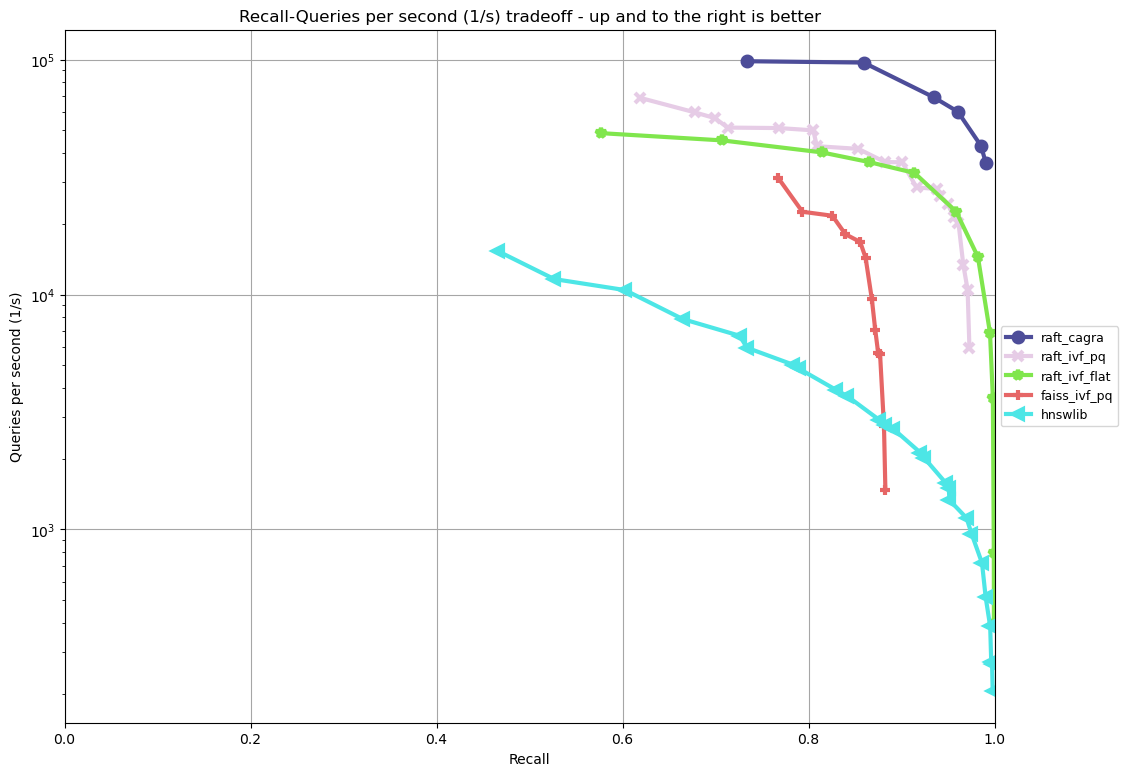
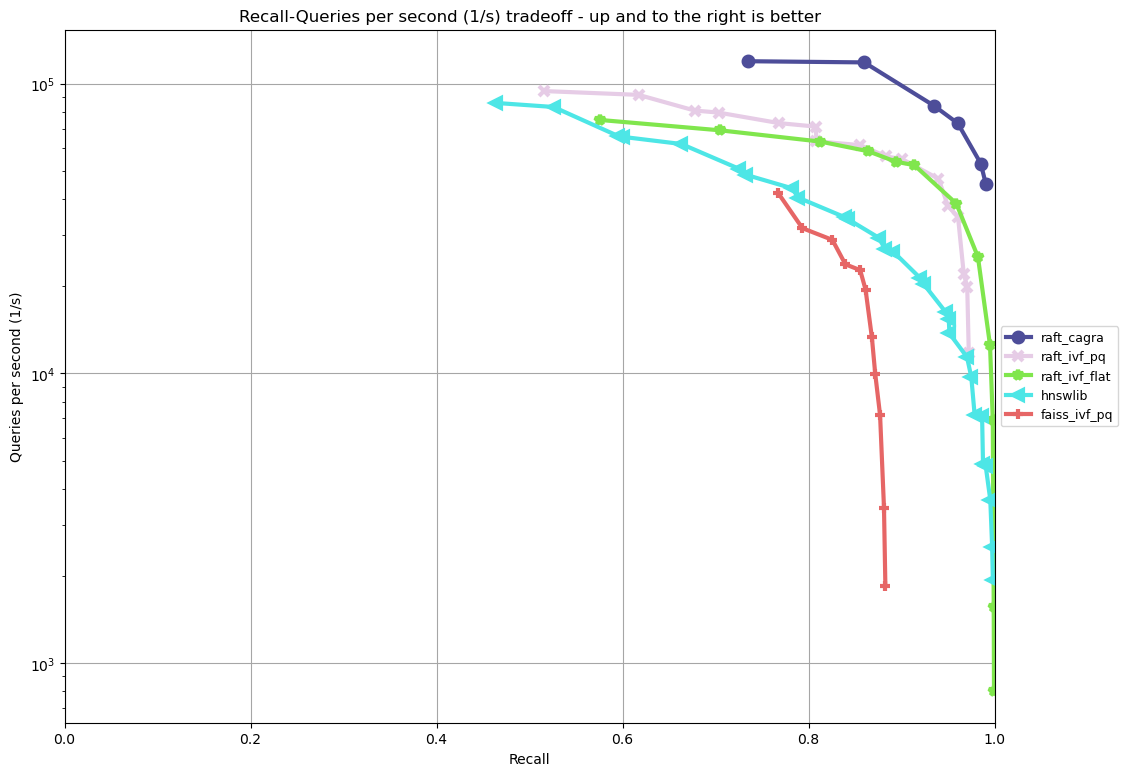
Change benchmark to use H100 results

diff --git a/docs/source/raft_ann_benchmarks.md b/docs/source/raft_ann_benchmarks.md
@@ -182,7 +182,7 @@ options:
 All algorithms present in the CSV file supplied to this script with parameter `result_csv`
 will appear in the plot.
 
-The figure below is the resulting plot of running our benchmarks as of August 2023 for a batch size of 10, on an NVIDIA A100 GPU and an AMD EPYC 7642 CPU. It presents the throughput (in Queries-Per-Second) performance for every level of recall.
+The figure below is the resulting plot of running our benchmarks as of August 2023 for a batch size of 10, on an NVIDIA H100 GPU and an Intel Xeon Platinum 8480CL CPU. It presents the throughput (in Queries-Per-Second) performance for every level of recall.
 
 ![Throughput vs recall plot comparing popular ANN algorithms with RAFT's at batch size 10](../../img/raft-vector-search-batch-10.png)
 
